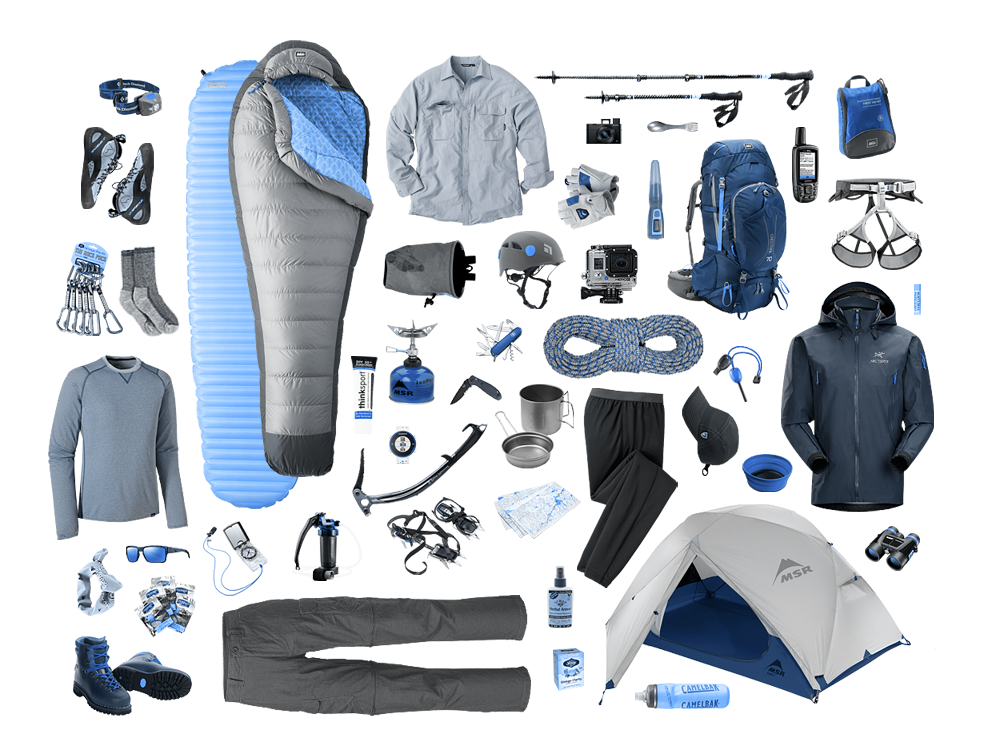
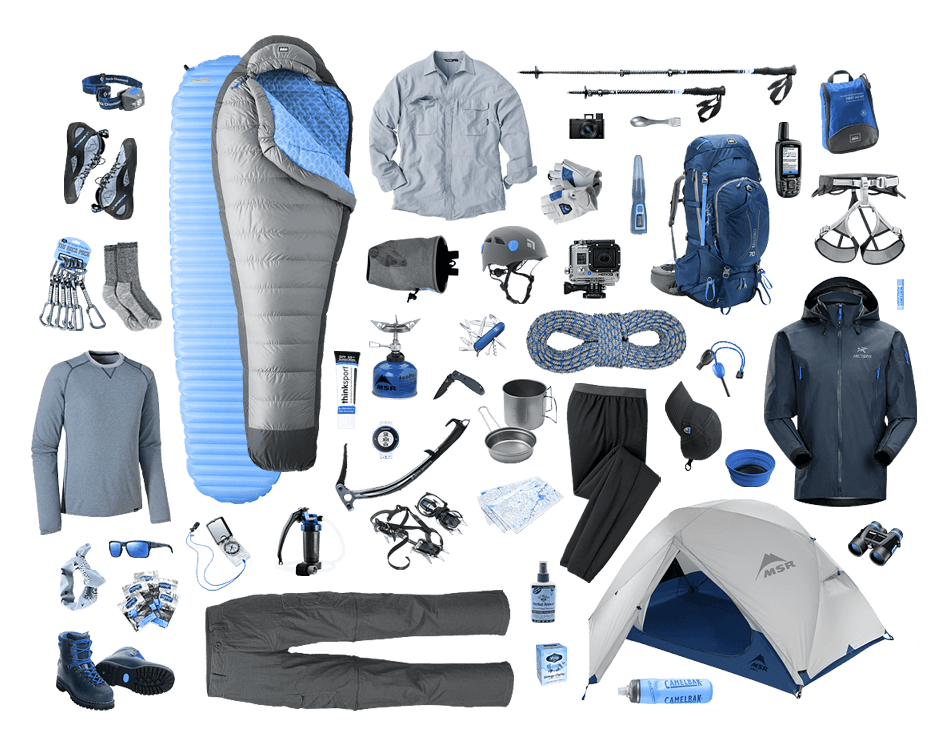
updated gear images

Changed region(s): [[0.0306, 0.0308, 0.9789, 0.9558]]

diff --git a/public/css/viking.less b/public/css/viking.less
@@ -452,7 +452,7 @@ input[type="button"] {
   .img-gear {
     display: block;
     position: relative;
-    width: 1000px; // TODO: Remove this once have all gear images same size
+//    width: 1000px; // TODO: Remove this once have all gear images same size
   }
 
   .position-app {
